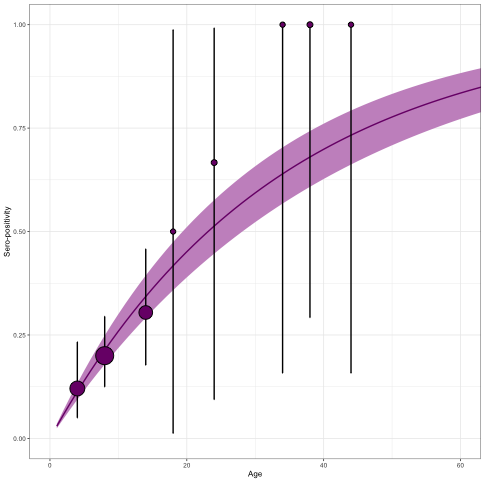
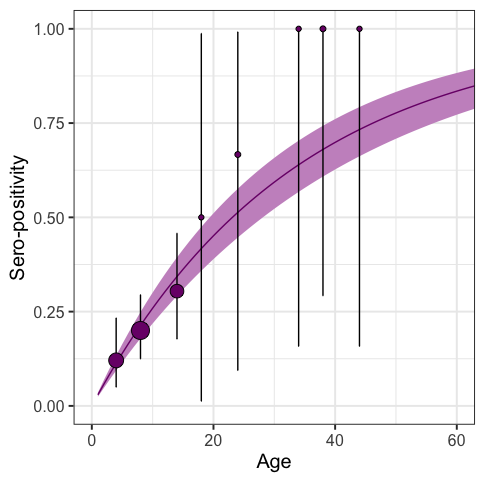
adding plots to the readme file

diff --git a/README.md b/README.md
@@ -62,15 +62,24 @@ plot_seroprev_fitted(model_0)
 ``` 
 ![](man/figures/plot_seroprev_fitted_example.png)
 
+
 ```
 plot_foi(model_0)
+``` 
+![](man/figures/plot_foi_example.png)
+
+
+```
 plot_rhats(model_0)
 ``` 
+![](man/figures/plot_rhats_example.png)
+
 
 The three plots can be obtained at once with the function `plot_model()`
 ``` r
-plot_model(model_0, size_text = 6)
+plot_model(model_0)
 ```
+![](man/figures/plot_model_example.png)
 
 
 Finally, the package provides a funcion `get_comparison_table()`  allows to compare these three models based on convergence, elpd and p-values
